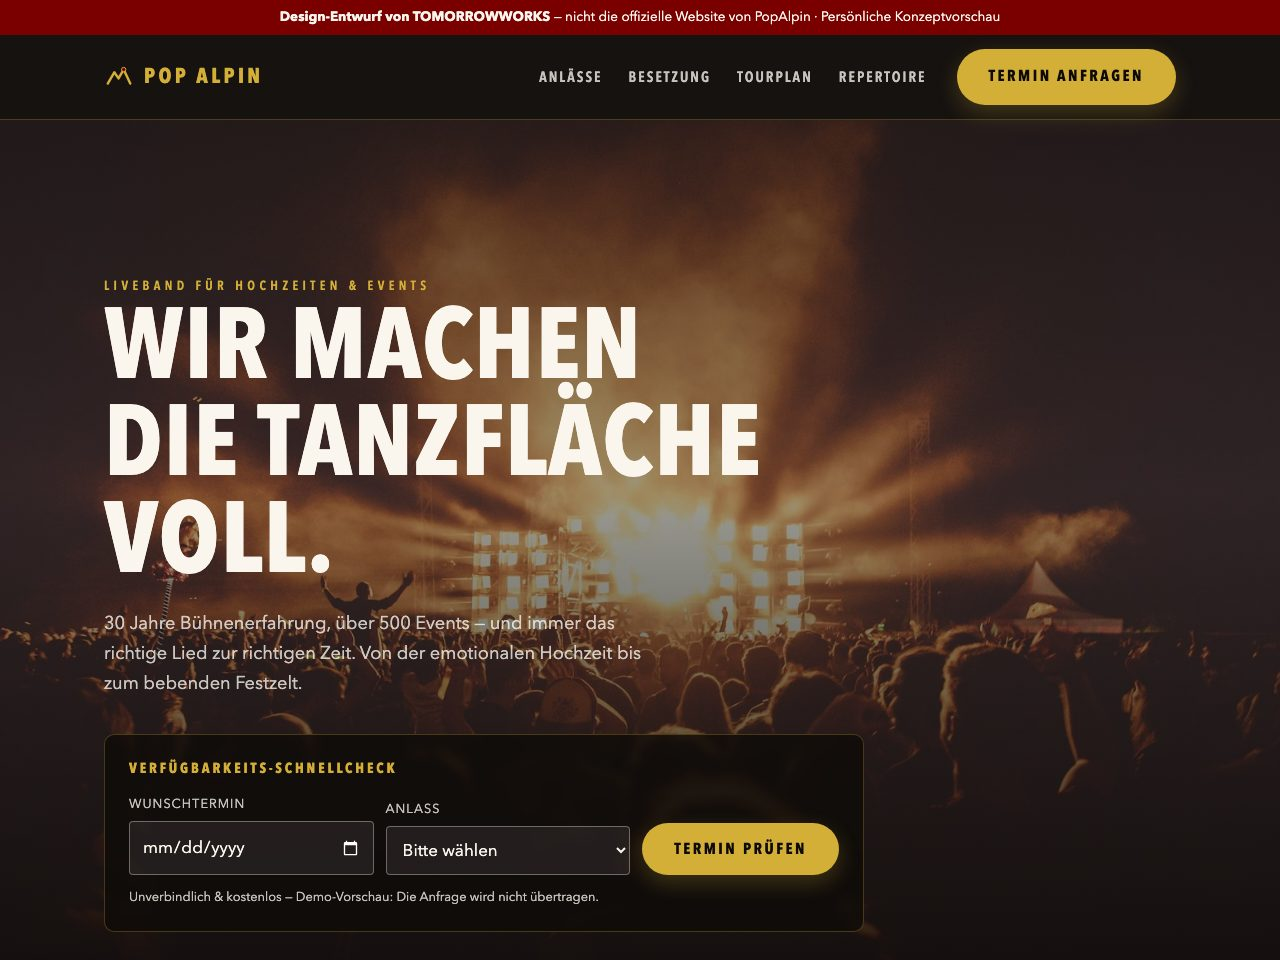
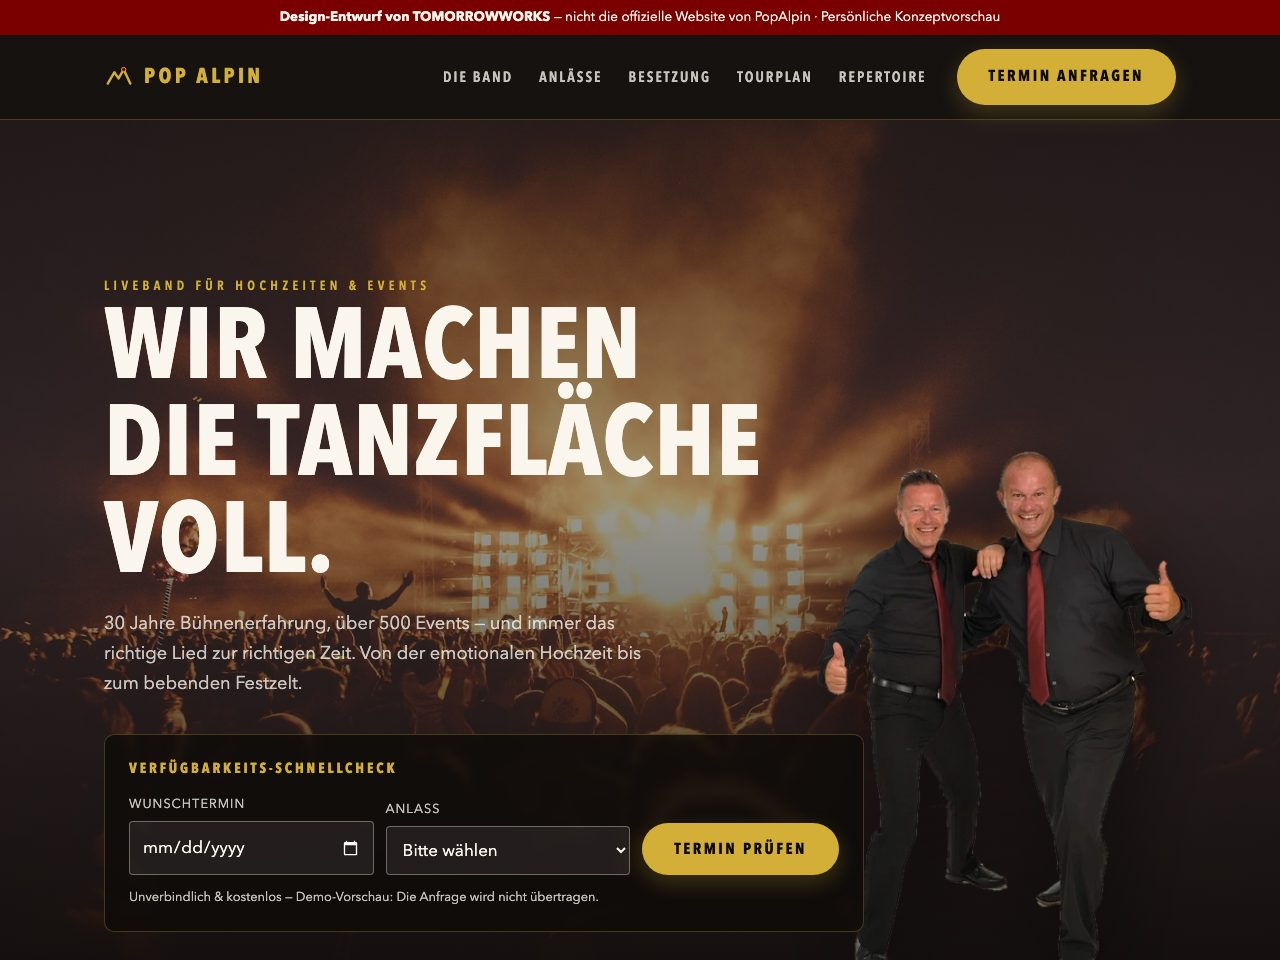
feat: PopAlpin — echte Bandfotos (Freigabe der Band 20.08.2026) + Kachel-Update
Claude-Session: https://claude.ai/code/session_01TLC6JToQpR8h1knFrCyWQA

diff --git a/popalpin/index.html b/popalpin/index.html
@@ -31,6 +31,7 @@
             <span class="wortmarke-text">Pop&nbsp;Alpin</span>
           </a>
           <nav class="site-nav" aria-label="Hauptnavigation">
+            <a href="#band">Die Band</a>
             <a href="#anlaesse">Anlässe</a>
             <a href="#besetzung">Besetzung</a>
             <a href="#tourplan">Tourplan</a>
@@ -53,7 +54,14 @@
             fetchpriority="high"
           >
         </div>
-        <span class="foto-tag">Beispielfoto (Symbolbild)</span>
+        <span class="foto-tag foto-tag--links">Hintergrund: Beispielfoto (Symbolbild)</span>
+        <img
+          class="hero-duo"
+          src="assets/band-duo-cut.webp"
+          alt="Das PopAlpin-Duo in Schwarz mit roten Krawatten, Daumen hoch — Foto: PopAlpin"
+          width="466"
+          height="616"
+        >
         <div class="hero-inhalt">
           <p class="eyebrow eyebrow--gold">Liveband für Hochzeiten &amp; Events</p>
           <h1 class="display">Wir machen die Tanzfläche voll.</h1>
@@ -188,6 +196,65 @@
             Schweizer Sterne-Hotels für Glanz sorgt, überlässt auf Ihrem Event
             nichts dem Zufall. <em>(Angaben der Band)</em>
           </p>
+        </div>
+      </section>
+
+      <!-- Die Band (echte Fotos, Freigabe der Band) -->
+      <section class="sektion" id="band" aria-label="Die Band">
+        <div class="sektion-inhalt">
+          <div class="sektion-kopf reveal">
+            <p class="eyebrow eyebrow--dunkel">Das ist PopAlpin</p>
+            <h2 class="display">Zwei Vollblutmusiker. Jede Menge Band.</h2>
+            <p>
+              Im Kern ein eingespieltes Duo — Gesang und Entertainment mit
+              Herz. Auf Wunsch wächst PopAlpin zum DJ-Set, Trio oder zur
+              kompletten Band. Immer dabei: 30 Jahre Bühnenerfahrung.
+            </p>
+          </div>
+          <div class="band-raster">
+            <figure class="band-karte reveal">
+              <img
+                src="assets/band-duo.webp"
+                alt="Das PopAlpin-Duo in Schwarz mit roten Krawatten — Foto: PopAlpin"
+                width="466"
+                height="616"
+                loading="lazy"
+              >
+              <figcaption>
+                <span>Das Kern-Duo</span>
+                Gesang &amp; Entertainment — das Herz von PopAlpin.
+                <em>Foto: PopAlpin</em>
+              </figcaption>
+            </figure>
+            <figure class="band-karte reveal">
+              <img
+                src="assets/band-dj.jpg"
+                alt="Bandmitglied als DJ mit Schallplatte und goldenem Mikrofon — Foto: PopAlpin"
+                width="1000"
+                height="626"
+                loading="lazy"
+              >
+              <figcaption>
+                <span>Das DJ-Set</span>
+                Der volle PopAlpin-Sound, kompakt aus einer Hand.
+                <em>Foto: PopAlpin</em>
+              </figcaption>
+            </figure>
+            <figure class="band-karte reveal">
+              <img
+                src="assets/band-tracht.webp"
+                alt="Die Band in Tracht mit Blasinstrumenten und Ukulele — Foto: PopAlpin"
+                width="540"
+                height="749"
+                loading="lazy"
+              >
+              <figcaption>
+                <span>Die Gaudi-Besetzung</span>
+                Festzelt-erprobt — von Oktoberfest bis Fastnacht.
+                <em>Foto: PopAlpin</em>
+              </figcaption>
+            </figure>
+          </div>
         </div>
       </section>
 
@@ -445,25 +512,37 @@
       <section class="sektion sektion--eng" aria-label="Benefiz-Projekt">
         <div class="sektion-inhalt">
           <div class="benefiz-karte reveal">
-            <p class="eyebrow eyebrow--dunkel">Benefiz-Projekt</p>
-            <h2 class="display">Ein Song für ein besonderes Abenteuer.</h2>
-            <p>
-              Für die <strong>Tractor Cowboys</strong> — fünf Freunde, die im
-              September 2026 mit Oldtimer-Traktoren die komplette Route 66
-              fahren und dabei Spenden für Kinder in Not sammeln — hat PopAlpin
-              einen eigenen Song geschrieben und produziert: Text, Melodie und
-              Arrangement komplett selbst, die Kosten hat die Band vollständig
-              getragen.
-            </p>
-            <p>
-              Es gibt ihn in einer englischen und einer Mundart-Version — auf
-              allen gängigen Streaming-Plattformen und über QR-Codes entlang
-              der Tour.
-            </p>
-            <p class="benefiz-fussnote">
-              Inhalt von der bestehenden Website übernommen; die vollständige
-              Projektseite ist nicht Teil dieser Konzeptvorschau.
-            </p>
+            <div class="benefiz-text">
+              <p class="eyebrow eyebrow--dunkel">Benefiz-Projekt</p>
+              <h2 class="display">Ein Song für ein besonderes Abenteuer.</h2>
+              <p>
+                Für die <strong>Tractor Cowboys</strong> — fünf Freunde, die im
+                September 2026 mit Oldtimer-Traktoren die komplette Route 66
+                fahren und dabei Spenden für Kinder in Not sammeln — hat PopAlpin
+                einen eigenen Song geschrieben und produziert: Text, Melodie und
+                Arrangement komplett selbst, die Kosten hat die Band vollständig
+                getragen.
+              </p>
+              <p>
+                Es gibt ihn in einer englischen und einer Mundart-Version — auf
+                allen gängigen Streaming-Plattformen und über QR-Codes entlang
+                der Tour.
+              </p>
+              <p class="benefiz-fussnote">
+                Inhalt von der bestehenden Website übernommen; die vollständige
+                Projektseite ist nicht Teil dieser Konzeptvorschau.
+              </p>
+            </div>
+            <figure class="benefiz-cover">
+              <img
+                src="assets/cover-route66.jpg"
+                alt="Single-Cover „Pop Alpin — Tractor-Cowboys" mit Oldtimer-Traktoren auf der Route 66 — Artwork: PopAlpin"
+                width="900"
+                height="900"
+                loading="lazy"
+              >
+              <figcaption>Das Single-Cover — Artwork: PopAlpin</figcaption>
+            </figure>
           </div>
         </div>
       </section>
@@ -505,9 +584,10 @@
         <p class="footer-klein">
           <strong>Design-Entwurf von TOMORROWWORKS</strong> — nicht die
           offizielle Website von PopAlpin. Persönliche Konzeptvorschau ohne
-          echte Kontaktdaten. Alle Fotos: lizenzierte Beispielfotos
-          (Symbolbilder), keine Aufnahmen der Band. Tourplan: Beispieltermine.
-          Zahlen und Zitate: Angaben der Band von der bestehenden Website.
+          echte Kontaktdaten. Bandfotos und Cover: PopAlpin (mit Freigabe der
+          Band, 20.08.2026); übrige Fotos: lizenzierte Beispielfotos
+          (Symbolbilder). Tourplan: Beispieltermine. Zahlen und Zitate:
+          Angaben der Band von der bestehenden Website.
         </p>
       </div>
     </footer>

diff --git a/popalpin/styles.css b/popalpin/styles.css
@@ -1290,3 +1290,114 @@ textarea:focus-visible {
     padding: 40px 18px 64px;
   }
 }
+
+/* ---------- Echte Bandfotos (Freigabe der Band, 20.08.2026) ---------- */
+
+.foto-tag--links {
+  right: auto;
+  left: 12px;
+}
+
+.hero-duo {
+  position: absolute;
+  z-index: 1;
+  right: clamp(10px, 5vw, 90px);
+  bottom: 0;
+  height: min(58vh, 560px);
+  width: auto;
+  filter: drop-shadow(0 22px 44px rgba(0, 0, 0, 0.55));
+}
+
+@media (max-width: 1150px) {
+  .hero-duo {
+    display: none;
+  }
+}
+
+.band-raster {
+  display: grid;
+  grid-template-columns: repeat(3, 1fr);
+  gap: 26px;
+  align-items: stretch;
+}
+
+.band-karte {
+  background: #fff;
+  border: 1px solid var(--hairline-hell);
+  border-radius: 10px;
+  overflow: hidden;
+  display: flex;
+  flex-direction: column;
+}
+
+.band-karte img {
+  aspect-ratio: 4 / 5;
+  object-fit: contain;
+  background: #fff;
+  width: 100%;
+  padding: 18px 18px 0;
+}
+
+.band-karte figcaption {
+  padding: 16px 20px 20px;
+  border-top: 3px solid var(--gold);
+  font-size: 0.95rem;
+  color: rgba(36, 29, 24, 0.82);
+}
+
+.band-karte figcaption span {
+  display: block;
+  font-family: var(--display);
+  font-weight: 700;
+  text-transform: uppercase;
+  letter-spacing: 0.1em;
+  font-size: 1.2rem;
+  color: var(--bordeaux);
+  margin-bottom: 4px;
+}
+
+.band-karte figcaption em {
+  display: block;
+  margin-top: 8px;
+  font-style: normal;
+  font-size: 0.78rem;
+  letter-spacing: 0.06em;
+  text-transform: uppercase;
+  color: var(--gold-text);
+}
+
+@media (max-width: 860px) {
+  .band-raster {
+    grid-template-columns: 1fr;
+  }
+}
+
+.benefiz-karte {
+  display: grid;
+  grid-template-columns: 1fr 280px;
+  gap: 40px;
+  align-items: center;
+}
+
+.benefiz-cover img {
+  border-radius: 8px;
+  border: 1px solid var(--hairline-hell);
+}
+
+.benefiz-cover figcaption {
+  margin-top: 10px;
+  font-size: 0.78rem;
+  letter-spacing: 0.05em;
+  text-transform: uppercase;
+  color: var(--gold-text);
+}
+
+@media (max-width: 720px) {
+  .benefiz-karte {
+    grid-template-columns: 1fr;
+    gap: 24px;
+  }
+  .benefiz-cover {
+    max-width: 320px;
+  }
+}

diff --git a/popalpin/anfrage.html b/popalpin/anfrage.html
@@ -31,6 +31,7 @@
             <span class="wortmarke-text">Pop&nbsp;Alpin</span>
           </a>
           <nav class="site-nav" aria-label="Hauptnavigation">
+            <a href="index.html#band">Die Band</a>
             <a href="index.html#anlaesse">Anlässe</a>
             <a href="index.html#besetzung">Besetzung</a>
             <a href="index.html#tourplan">Tourplan</a>

diff --git a/popalpin/MEDIA-LICENSES.md b/popalpin/MEDIA-LICENSES.md
@@ -30,3 +30,20 @@ abgeleitet aus den im Logo-SVG der Band belegten Markenfarben #d4af37/#7a0000).
 Aussortiert wegen Markenrisiko (nicht verwendet): Festzelt-Kandidat mit
 sichtbaren Brauerei-Logos (Veltins-Schirme, Unsplash 9xsXiWvjnLQ) sowie
 DJ-Motive mit erkennbaren Gerätemarken.
+
+## Eigene Fotos der Band (Freigabe erteilt)
+
+**Rechte: PopAlpin.** Freigabe der Band am 20.08.2026 (übermittelt über den
+Auftrags-Absender an Marcel). Quelle: Original-Uploads der bestehenden Website
+(gesichert unter `original-bilder/`, siehe dortiges MANIFEST.tsv).
+
+| Datei | Motiv | Quelle (Original) |
+| --- | --- | --- |
+| assets/band-duo-cut.webp | Kern-Duo, freigestellt (Weiß-Hintergrund von TOMORROWWORKS entfernt) | galaband_duo_popalpin_cut_466x616.webp |
+| assets/band-duo.webp | Kern-Duo auf Weiß | galaband_duo_popalpin_cut_466x616.webp |
+| assets/band-dj.jpg | DJ-Set mit Schallplatte | dj_solo_sig0802_m-Kopie.jpg |
+| assets/band-tracht.webp | Band in Tracht mit Blasinstrumenten | gaudi_oktoberfest_4_540x749.webp |
+| assets/cover-route66.jpg | Single-Cover Tractor-Cowboys/Route 66 | PopAlpin_TractorCowboys_Route66.jpeg |
+
+Kennzeichnung in der Demo: „Foto: PopAlpin" / „Artwork: PopAlpin"; der
+Footer weist die Mischung (Bandfotos + lizenzierte Beispielfotos) aus.
